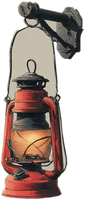
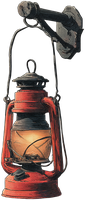
Vraie DA : détourage par IA (BiRefNet / ISNet), décors sans ombres ni sol
Décors et images de Wendel re-détourés ; fond du Grand Puits plus lointain
(parallaxe 0.04) en attendant un fond à la bonne échelle.

Claude-Session: https://claude.ai/code/session_011WbKxCpjrKesw3qGNEFtUB

diff --git a/tools/art/art.py b/tools/art/art.py
@@ -101,6 +101,31 @@ def key_background(im, tol=38.0, feather=1.5):
     return out
 
 
+_SESSION = None
+_MODEL = "birefnet-general"
+
+
+def key_ai(im):
+    """Détourage par IA (rembg + BiRefNet) : bords nets, ombres portées et sol retirés.
+    Le modèle (~1 Go) se télécharge au premier usage dans ~/.u2net. Sans rembg, on retombe
+    sur le détourage par couleur de fond."""
+    global _SESSION
+    try:
+        from rembg import new_session, remove
+    except ImportError:
+        print("rembg absent (pip install \"rembg[cpu]\") : détourage par couleur de fond")
+        return key_background(im)
+    if _SESSION is None:
+        _SESSION = new_session(_MODEL)
+    return remove(im.convert("RGBA"), session=_SESSION)
+
+
+def cut(im, a):
+    global _MODEL
+    _MODEL = getattr(a, "modele", _MODEL)
+    return key_background(im, a.tol) if a.detourage == "couleur" else key_ai(im)
+
+
 def trim(im, pad=4):
     box = im.getchannel("A").point(lambda v: 255 if v > 24 else 0).getbbox()
     if not box:
@@ -151,7 +176,7 @@ def cmd_matiere(a):
 
 def cmd_decor(a):
     im = crop_frac(load(a.src, a.quart), a.crop)
-    im = trim(key_background(im, a.tol))
+    im = trim(cut(im, a))
     if a.hauteur:
         im = im.resize((round(im.width * a.hauteur / im.height), a.hauteur), Image.LANCZOS)
     im = grade(im, sat=a.sat, gain=a.gain, lift=a.lift)
@@ -200,9 +225,17 @@ def cmd_wendel(a):
         paths = extract_frames(a.src, a.fps, tmp)
         if a.debut or a.fin:
             paths = paths[a.debut: (a.fin or len(paths))]
-        cut = [key_background(Image.open(p).convert("RGBA"), a.tol) for p in paths]
-    anchors = [feet_anchor(np.asarray(c.getchannel("A"))) for c in cut]
-    good = [(c, an) for c, an in zip(cut, anchors) if an]
+        raw = [Image.open(p).convert("RGBA") for p in paths]
+        for r in raw:
+            r.load()
+    # Choix de la boucle sur un détourage rapide, puis détourage soigné des seules images gardées.
+    quick = [key_background(r, a.tol) for r in raw]
+    keep = list(range(len(raw)))
+    if a.boucle:
+        keep = trim_loop_idx(quick)
+    cutf = [cut(raw[i], a) for i in keep]
+    anchors = [feet_anchor(np.asarray(c.getchannel("A"))) for c in cutf]
+    good = [(c, an) for c, an in zip(cutf, anchors) if an]
     if not good:
         sys.exit("aucun personnage trouvé : fond trop chargé ?")
     # Même échelle : la taille médiane du personnage devient a.hauteur (pieds à la tête, repos).
@@ -216,8 +249,6 @@ def cmd_wendel(a):
         f = Image.new("RGBA", (W, H))
         f.alpha_composite(c, (round(foot[0] - cx * k), round(foot[1] - by * k)))
         frames.append(f)
-    if a.boucle:
-        frames = trim_loop(frames)
     if a.couleurs:
         frames = quantize_palette(frames, a.couleurs)
     os.makedirs(a.out, exist_ok=True)
@@ -234,12 +265,12 @@ def cmd_wendel(a):
     print(json.dumps(meta))
 
 
-def trim_loop(frames, pmin=5, pmax=24):
+def trim_loop_idx(frames, pmin=5, pmax=24):
     """Garde un cycle propre : cherche la période (en images) qui fait le mieux revenir le personnage
     sur lui-même, en couleurs (pour distinguer la jambe avant de la jambe arrière), puis garde le
     cycle qui se referme le mieux."""
     if len(frames) < pmin * 2:
-        return frames
+        return list(range(len(frames)))
     small = [np.asarray(f.resize((64, 64))).astype(np.float32) for f in frames]
     n = len(small)
     best_p, best_d = None, 1e9
@@ -253,7 +284,7 @@ def trim_loop(frames, pmin=5, pmax=24):
         if e < best_e:
             best_s, best_e = s0, e
     print(f"boucle : {best_p} images à partir de l'image {best_s} (écart {best_e:.1f})")
-    return frames[best_s:best_s + best_p]
+    return list(range(best_s, best_s + best_p))
 
 
 def main():
@@ -279,6 +310,7 @@ def main():
     sp = sub.add_parser("decor"); common(sp)
     sp.add_argument("--hauteur", type=int, default=0)
     sp.add_argument("--tol", type=float, default=38.0)
+    sp.add_argument("--detourage", choices=["ia", "couleur"], default="ia")
     sp.set_defaults(fn=cmd_decor)
     sp = sub.add_parser("wendel")
     sp.add_argument("src"); sp.add_argument("out")
@@ -288,7 +320,9 @@ def main():
     sp.add_argument("--debut", type=int, default=0)
     sp.add_argument("--fin", type=int, default=0)
     sp.add_argument("--boucle", action="store_true")
+    sp.add_argument("--detourage", choices=["ia", "couleur"], default="ia")
     sp.add_argument("--couleurs", type=int, default=48)
+    sp.add_argument("--modele", default="isnet-general-use", help="modèle rembg (plus léger que BiRefNet pour les vidéos)")
     sp.set_defaults(fn=cmd_wendel)
     a = p.parse_args()
     a.fn(a)

diff --git a/art/README.md b/art/README.md
@@ -21,6 +21,7 @@ objets restent ceux des salles grises. **F2** bascule entre la DA et le gris.
 - Écran de référence 1280×720, tuile de 32 px ; l'art est produit au double (64 px par tuile).
 - Noms en minuscules, sans accent.
 - Tout passe par `tools/art/art.py` (relançable) : `fond`, `matiere`, `decor`, `wendel`. Voir `--help`.
+- Détourage par IA : `pip install "rembg[cpu]"` ; BiRefNet (~1 Go) pour les décors, ISNet pour les images de Wendel. Les modèles se téléchargent au premier usage.
 
 ## Palette d'une salle (zone.json)
 
